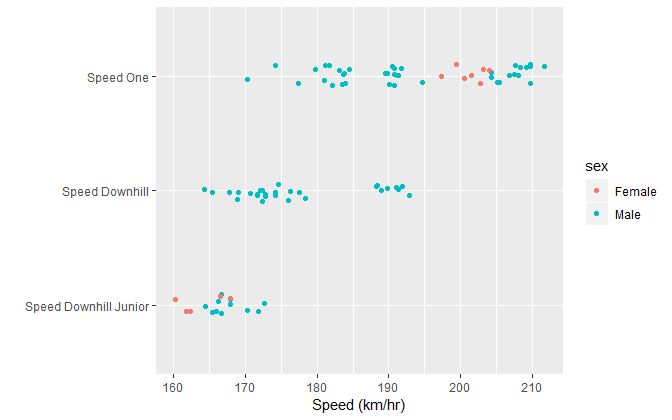
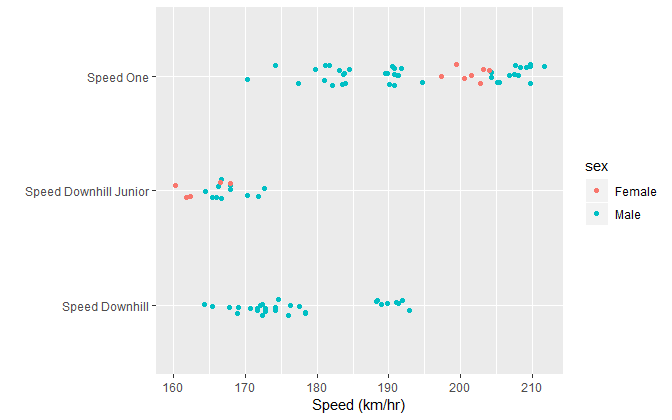
cm201

diff --git a/cm/cm201_strip-plot.md b/cm/cm201_strip-plot.md
@@ -51,17 +51,17 @@ library("tidyverse")
 library("graphclassmate")
 
 speed_ski
-#> # A tibble: 91 x 4
-#>   event     sex   speed allevents 
-#>   <fct>     <chr> <dbl> <chr>     
-#> 1 Speed One Male   212. All events
-#> 2 Speed One Male   210. All events
-#> 3 Speed One Male   210. All events
-#> 4 Speed One Male   210. All events
-#> 5 Speed One Male   209. All events
-#> 6 Speed One Male   208. All events
-#> 7 Speed One Male   208. All events
-#> 8 Speed One Male   208. All events
+#> # A tibble: 91 x 3
+#>   event     sex   speed
+#>   <chr>     <chr> <dbl>
+#> 1 Speed One Male   212.
+#> 2 Speed One Male   210.
+#> 3 Speed One Male   210.
+#> 4 Speed One Male   210.
+#> 5 Speed One Male   209.
+#> 6 Speed One Male   208.
+#> 7 Speed One Male   208.
+#> 8 Speed One Male   208.
 #> # ... with 83 more rows
 ```
 
@@ -79,8 +79,7 @@ column.
 
 ``` r
 unique(speed_ski$event)
-#> [1] Speed One             Speed Downhill        Speed Downhill Junior
-#> Levels: Speed Downhill Junior Speed Downhill Speed One
+#> [1] "Speed One"             "Speed Downhill"        "Speed Downhill Junior"
 unique(speed_ski$sex)
 #> [1] "Male"   "Female"
 ```
@@ -239,8 +238,8 @@ speed_ski_table %>%
 | Speed Downhill        |     NA |   29 |
 | Speed One             |      7 |   39 |
 
-I suggest `theme_graphclass()` supplied by the graphclassmate package as
-a good starting point.
+For formatting the graph, we start with `theme_graphclass()` as a good
+starting point.
 
 ``` r
 ggplot(speed_ski, aes(x = speed, y = event, color = sex)) +
@@ -311,7 +310,7 @@ ggplot(speed_ski, aes(x = speed, y = event, color = sex, fill = sex)) +
 <img src="cm201_strip-plot_files/figure-gfm/unnamed-chunk-21-1.png" width="70%" style="display: block; margin: auto;" />
 
 Using `ggsave()` to control the figure dimensions, we can control the
-aspect ratio and the
+aspect ratio and dpi,
 
 ``` r
 ggsave(filename = "d1-01-stripchart-speed-ski.png",
@@ -324,8 +323,8 @@ ggsave(filename = "d1-01-stripchart-speed-ski.png",
 )
 ```
 
-producing the final
-image,
+producing a final image suitable for a
+portfolio.
 
 <img src="../figures/d1-02-stripchart-speed-ski.png" width="100%" style="display: block; margin: auto;" />
 

diff --git a/README.md b/README.md
@@ -93,7 +93,7 @@ Data lab
 
 ## graphs
 
-  - [Strip plot](cm/cm_201-strip-plot.md)
+  - [Strip plot](cm/cm201_strip-plot.md)
 
 ## software
 
